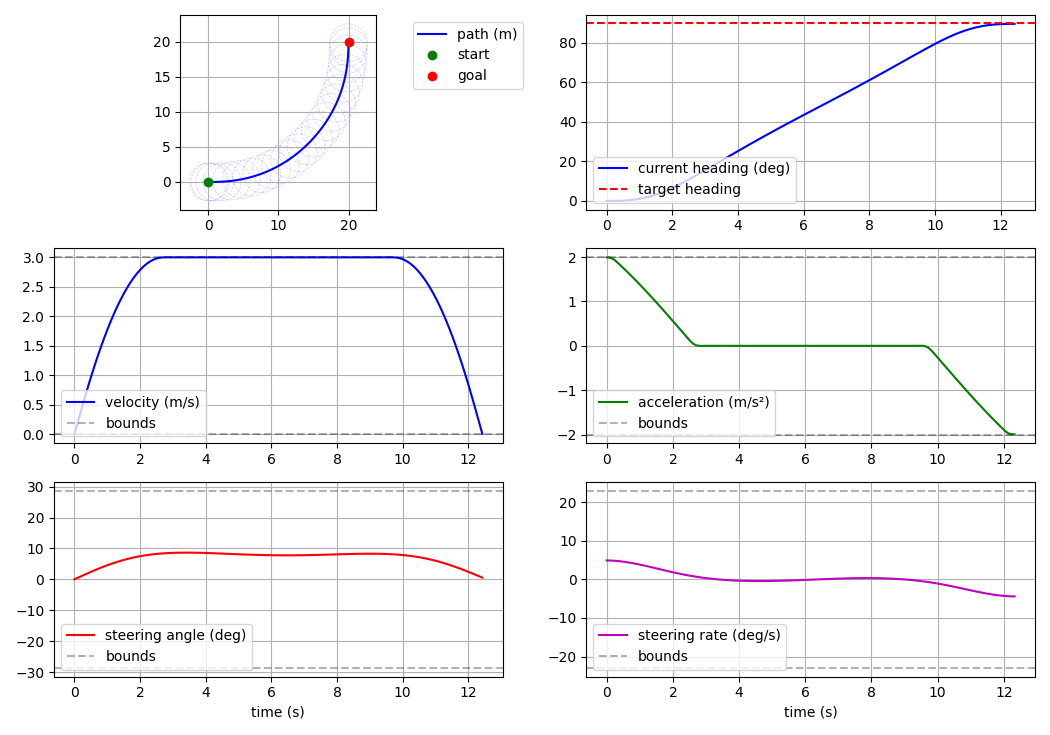
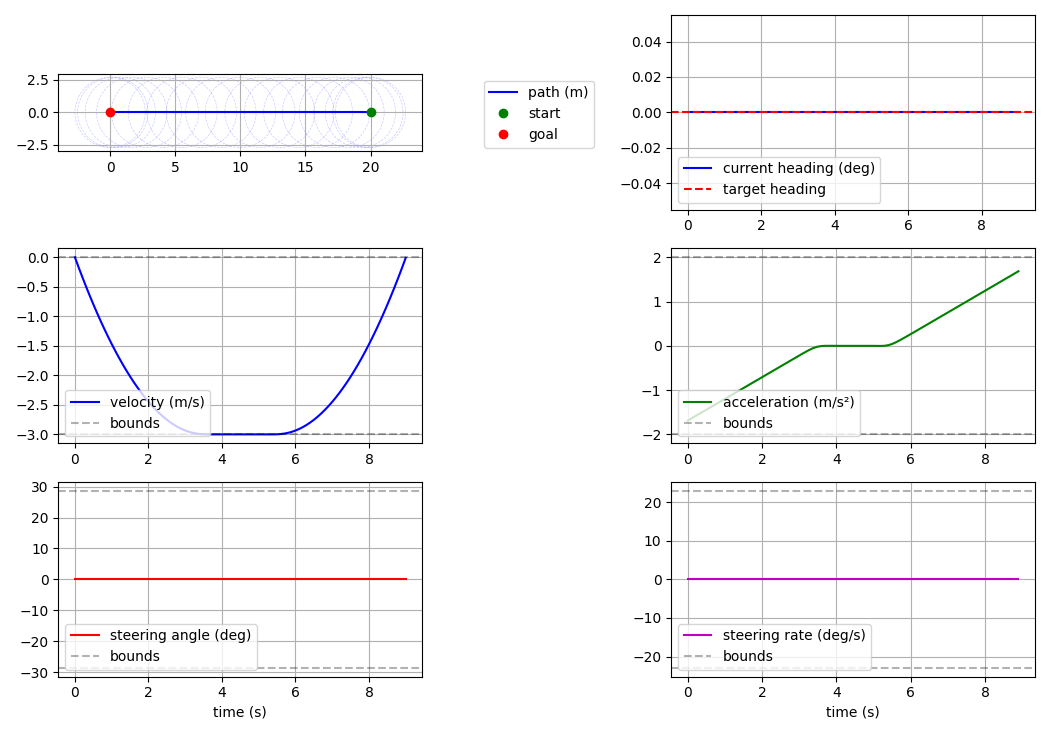
Save current changes before debugging

diff --git a/src/geodesic.py b/src/geodesic.py
@@ -1,147 +1,97 @@
 #!/usr/bin/env python3
 
 import numpy as np
-from core_solver import SimConfig, EgoConfig, generate_controls
+from core_solver import SimConfig, EgoConfig, generate_controls, calc_time_range
 from plots import plot_results
 
-def find_geodesic(ego, initial_duration=None, min_duration=None, max_duration=None, 
-                       duration_range_margin=5.0, step=0.5, dt=0.1):
+def find_geodesic(ego, min_duration=1, max_duration=50, time_steps=0.5, dt=0.1):
     """
     Find the minimum duration that results in a feasible path.
     
     Args:
         ego: Object containing vehicle parameters and constraints
-        initial_duration: Starting duration to test (if None, will be calculated)
-        min_duration: Minimum duration to test (if None, will be calculated)
-        max_duration: Maximum duration to test (if None, will be calculated)
-        duration_range_margin: Margin to add/subtract from middle duration to set search range (default: 5.0 seconds)
-        step: Step size for decreasing duration
-        dt: Time step for discretization
+        min_duration: Minimum duration to test (default: 1 second)
+        max_duration: Maximum duration to test (default: 50 seconds)
+        time_steps: Step size for duration search (default: 0.5 seconds)
+        dt: Time step for discretization (default: 0.1 seconds)
         
     Returns:
         Minimum feasible duration and the corresponding results
     """
-    # Calculate a reasonable duration range based on distance and max velocity
+    # Calculate distance for logging purposes
     start_x, start_y = ego.state_start[0], ego.state_start[1]
     end_x, end_y = ego.state_final[0], ego.state_final[1]
-    
-    # Calculate Euclidean distance
     distance = np.sqrt((end_x - start_x)**2 + (end_y - start_y)**2)
     
-    # Calculate middle duration based on distance and max velocity
-    duration_middle = distance / ego.velocity_max
-    
-    # Set search range if not provided
-    if initial_duration is None:
-        initial_duration = duration_middle
-    if min_duration is None:
-        min_duration = max(duration_middle - duration_range_margin, 1.0)  # Ensure min_duration is at least 1 second
-    if max_duration is None:
-        max_duration = duration_middle + duration_range_margin
+    # Use the provided time_steps parameter
+    step = time_steps
     
     print(f"Distance from start to goal: {distance:.2f} meters")
-    print(f"Estimated middle duration: {duration_middle:.2f} seconds")
     print(f"Search range: {min_duration:.1f} to {max_duration:.1f} seconds")
+    print(f"Step size: {step:.1f} seconds")
     print("Finding minimum feasible duration...")
     
-    # Start with the initial duration
-    current_duration = initial_duration
+    # Start with the minimum duration
+    current_duration = min_duration
     last_feasible_duration = None
     last_feasible_results = None
     
-    # First try the initial duration
-    print(f"Testing initial duration: {current_duration:.1f} seconds")
-    sim_cfg = SimConfig()
-    sim_cfg.duration = current_duration
-    sim_cfg.dt = dt
-    
-    try:
-        results = generate_controls(ego, sim_cfg)
-        status = results['status']
+    # Try increasing durations until we find a feasible solution
+    while current_duration <= max_duration:
+        print(f"Testing duration: {current_duration:.1f} seconds")
         
-        if status == 0:
-            print(f"✓ Duration {current_duration:.1f}s: Feasible solution found")
-            last_feasible_duration = current_duration
-            last_feasible_results = results
-        else:
-            print(f"✗ Duration {current_duration:.1f}s: Solver failed with status {status}")
-            # Try a longer duration
-            current_duration = min(current_duration + step, max_duration)
-    except Exception as e:
-        print(f"✗ Duration {current_duration:.1f}s: Error - {str(e)}")
-        # Try a longer duration
-        current_duration = min(current_duration + step, max_duration)
-    
-    # If initial duration was feasible, try decreasing
-    if last_feasible_duration is not None:
-        current_duration = last_feasible_duration - step
+        sim_cfg = SimConfig()
+        sim_cfg.duration = current_duration
+        sim_cfg.dt = dt
         
-        # Try decreasing durations until we find the minimum
-        while current_duration >= min_duration:
-            print(f"Testing duration: {current_duration:.1f} seconds")
+        try:
+            results = generate_controls(ego, sim_cfg)
+            status = results['status']
             
-            sim_cfg = SimConfig()
-            sim_cfg.duration = current_duration
-            sim_cfg.dt = dt
-            
-            try:
-                results = generate_controls(ego, sim_cfg)
-                status = results['status']
-                
-                if status == 0:
-                    print(f"✓ Duration {current_duration:.1f}s: Feasible solution found")
-                    last_feasible_duration = current_duration
-                    last_feasible_results = results
-                    # Decrease duration and try again
-                    current_duration -= step
-                else:
-                    print(f"✗ Duration {current_duration:.1f}s: Solver failed with status {status}")
-                    # We've found the minimum feasible duration
-                    break
-            except Exception as e:
-                print(f"✗ Duration {current_duration:.1f}s: Error - {str(e)}")
-                # We've found the minimum feasible duration
-                break
-    # If initial duration was not feasible, try increasing
-    else:
-        # Try increasing durations until we find a feasible solution
-        while current_duration <= max_duration:
-            print(f"Testing duration: {current_duration:.1f} seconds")
-            
-            sim_cfg = SimConfig()
-            sim_cfg.duration = current_duration
-            sim_cfg.dt = dt
-            
-            try:
-                results = generate_controls(ego, sim_cfg)
-                status = results['status']
-                
-                if status == 0:
-                    print(f"✓ Duration {current_duration:.1f}s: Feasible solution found")
-                    last_feasible_duration = current_duration
-                    last_feasible_results = results
-                    break  # Found a feasible solution, no need to increase further
-                else:
-                    print(f"✗ Duration {current_duration:.1f}s: Solver failed with status {status}")
-                    # Try a longer duration
-                    current_duration += step
-            except Exception as e:
-                print(f"✗ Duration {current_duration:.1f}s: Error - {str(e)}")
+            if status == 0:
+                print(f"✓ Duration {current_duration:.1f}s: Feasible solution found")
+                last_feasible_duration = current_duration
+                last_feasible_results = results
+                break  # Found a feasible solution, no need to increase further
+            else:
+                print(f"✗ Duration {current_duration:.1f}s: Solver failed with status {status}")
                 # Try a longer duration
                 current_duration += step
+        except Exception as e:
+            print(f"✗ Duration {current_duration:.1f}s: Error - {str(e)}")
+            # Try a longer duration
+            current_duration += step
     
     if last_feasible_duration is None:
         print("No feasible solution found within the tested range.")
         return None, None
     
     print(f"\nMinimum feasible duration: {last_feasible_duration:.1f} seconds")
-    return last_feasible_duration, last_feasible_results 
+    return last_feasible_duration, last_feasible_results
 
 
 if __name__ == "__main__":
     # Example usage
     # Create ego configuration
     ego = EgoConfig()
+    ego.state_start = [20, 0, 0, 0, 0]
+    ego.state_final = [0,  0, 0, 0, 0]
+
+    ego.velocity_max = 0.0  # Set velocity max to 0 for backward motion
+    ego.velocity_min = -3.0 # Use negative velocity for backward motion
+
+    # Find minimum feasible duration
+    min_feasible_duration, min_results = find_geodesic(
+        ego,
+        min_duration=1,  # Use the calculated minimum duration
+        max_duration=10,  # Use the calculated maximum duration
+        time_steps=2,               # Search with 2 second steps
+        dt=0.1
+    )
+    
+    # Plot results if a feasible solution was found
+    if min_results is not None:
+        plot_results(min_results, ego, save_path='docs/geodesic_results.png') 
     
     # Example of customizing weights
     # Uncomment and modify these lines to change the behavior
@@ -156,14 +106,11 @@ if __name__ == "__main__":
     # ego.weight_terminal_velocity = 50.0     # Higher to ensure precise final velocity
     # ego.weight_terminal_steering = 50.0     # Higher to ensure precise final steering angle
     
-    # Find minimum feasible duration using the distance-based search range
-    min_duration, min_results = find_geodesic(
-        ego,
-        duration_range_margin=5.0,  # +/- 5 seconds around the middle duration
-        step=1.0,
-        dt=0.1
-    )
+    # Calculate time range using calc_time_range (optional)
+    # _, min_duration, max_duration, _ = calc_time_range(
+    #     ego,
+    #     duration_range_margin=5.0
+    # )
+    # print(f"Calculated time range: min={min_duration:.1f}s, max={max_duration:.1f}s")
     
-    # Plot results if a feasible solution was found
-    if min_results is not None:
-        plot_results(min_results, ego, save_path='docs/geodesic_results.png') 
+    

diff --git a/src/core_solver.py b/src/core_solver.py
@@ -64,6 +64,42 @@ def calculate_path_duration(start_pos, end_pos, max_velocity, margin=5.0):
     
     return duration
 
+def calc_time_range(ego, duration_range_margin=5.0):
+    """
+    Calculate the minimum and maximum duration for path planning based on the distance
+    between start and goal positions and the vehicle's maximum velocity.
+    
+    Args:
+        ego: Object containing vehicle parameters and constraints
+        duration_range_margin: Margin to add/subtract from middle duration to set search range (default: 5.0 seconds)
+        
+    Returns:
+        Tuple containing (initial_duration, min_duration, max_duration, distance)
+    """
+    # Extract start and end positions
+    start_x, start_y = ego.state_start[0], ego.state_start[1]
+    end_x, end_y = ego.state_final[0], ego.state_final[1]
+    
+    # Calculate Euclidean distance
+    distance = np.sqrt((end_x - start_x)**2 + (end_y - start_y)**2)
+    
+    # Calculate middle duration based on distance and max velocity
+    # Use absolute value of velocity_max to handle negative velocities
+    velocity_abs = abs(ego.velocity_max) if ego.velocity_max != 0 else abs(ego.velocity_min)
+    if velocity_abs == 0:
+        # If both velocity limits are 0, use a default value
+        velocity_abs = 1.0
+        print("Warning: Both velocity_max and velocity_min are 0. Using default velocity of 1.0 m/s.")
+    
+    duration_middle = distance / velocity_abs
+    
+    # Set search range
+    initial_duration = duration_middle
+    min_duration = max(duration_middle - duration_range_margin, 1.0)  # Ensure min_duration is at least 1 second
+    max_duration = duration_middle + duration_range_margin
+    
+    return initial_duration, min_duration, max_duration, distance
+
 def generate_controls(ego, sim_cfg):
     """
     Generate optimal controls for path planning using Acados.
@@ -209,8 +245,8 @@ def generate_controls(ego, sim_cfg):
     # State constraints - relaxed bounds for better convergence
     x_max = 100.0
     y_max = 100.0
-    ocp.constraints.lbx = np.array([-x_max, -y_max, -2*np.pi, 0.0, -0.5])  # Modified velocity and steering bounds
-    ocp.constraints.ubx = np.array([x_max, y_max, 2*np.pi, 3.0, 0.5])
+    ocp.constraints.lbx = np.array([-x_max, -y_max, -2*np.pi, ego.velocity_min, ego.steering_min])  # Use ego velocity limits
+    ocp.constraints.ubx = np.array([x_max, y_max, 2*np.pi, ego.velocity_max, ego.steering_max])  # Use ego velocity limits
     ocp.constraints.idxbx = np.array(range(nx))
     
     # Initial state constraint
@@ -221,15 +257,15 @@ def generate_controls(ego, sim_cfg):
         ego.state_final[0] - eps_pos,
         ego.state_final[1] - eps_pos,
         ego.state_final[2] - eps_angle,
-        -eps_vel,
-        -eps_vel
+        ego.state_final[3] - eps_vel,  # Use the target velocity with slack
+        ego.state_final[4] - eps_vel
     ])
     ocp.constraints.ubx_e = np.array([
         ego.state_final[0] + eps_pos,
         ego.state_final[1] + eps_pos,
         ego.state_final[2] + eps_angle,
-        eps_vel,
-        eps_vel
+        ego.state_final[3] + eps_vel,  # Use the target velocity with slack
+        ego.state_final[4] + eps_vel
     ])
     ocp.constraints.idxbx_e = np.array(range(nx))
     
@@ -246,7 +282,13 @@ def generate_controls(ego, sim_cfg):
         x_init = ego.state_start[0] + t * (ego.state_final[0] - ego.state_start[0])
         y_init = ego.state_start[1] + t * (ego.state_final[1] - ego.state_start[1])
         theta_init = ego.state_start[2] + t * (ego.state_final[2] - ego.state_start[2])
-        v_init = 1.0  # Initial guess for velocity
+        
+        # Initialize velocity within the allowed range
+        if ego.velocity_max > ego.velocity_min:
+            v_init = ego.velocity_min + 0.5 * (ego.velocity_max - ego.velocity_min)  # Middle of the range
+        else:
+            v_init = ego.velocity_min  # If max <= min, use min
+            
         steering_init = 0.0
         acados_solver.set(i, "x", np.array([x_init, y_init, theta_init, v_init, steering_init]))
     

diff --git a/src/path_finder.py b/src/path_finder.py
@@ -118,7 +118,7 @@ if __name__ == "__main__":
     duration = calculate_path_duration(start_pos, end_pos, ego.velocity_max)
     
     print("Running path planning silently...")
-    results = find_path(ego, duration=10, dt=0.1, verbose=True)
+    results = find_path(ego, duration=duration, dt=0.1, verbose=True)
     print("Path planning completed.")
     
     # Import plot_results only if needed

diff --git a/README.md b/README.md
@@ -124,9 +124,7 @@ The project includes advanced path planning capabilities in the `src` directory:
 - Path duration calculation utilities
 
 ### Geodesic Path Finding (`geodesic.py`)
-- Finds the minimum duration that results in a feasible path
-- Automatic search range calculation based on distance
-- Iterative duration optimization
+- Simplified `find_geodesic` function with minimal required parameters
 
 ### Path Finding (`path_finder.py`)
 - Fixed-duration path planning
@@ -175,7 +173,7 @@ ego.weight_terminal_steering = 10.0
 
 1. Geodesic path finding:
 ```bash
-python -c "from src.geodesic import find_geodesic; from src.core_solver import EgoConfig; from src.plots import plot_results; ego = EgoConfig(); min_duration, min_results = find_geodesic(ego); plot_results(min_results, ego) if min_results else print('No feasible path found')"
+python -c "from src.geodesic import find_geodesic, calc_time_range; from src.core_solver import EgoConfig; from src.plots import plot_results; ego = EgoConfig(); _, min_dur, max_dur, _ = calc_time_range(ego); min_duration, min_results = find_geodesic(ego, min_duration=min_dur, max_duration=max_dur, time_steps=0.5); plot_results(min_results, ego) if min_results else print('No feasible path found')"
 ```
 
 2. Path finding with fixed duration:
